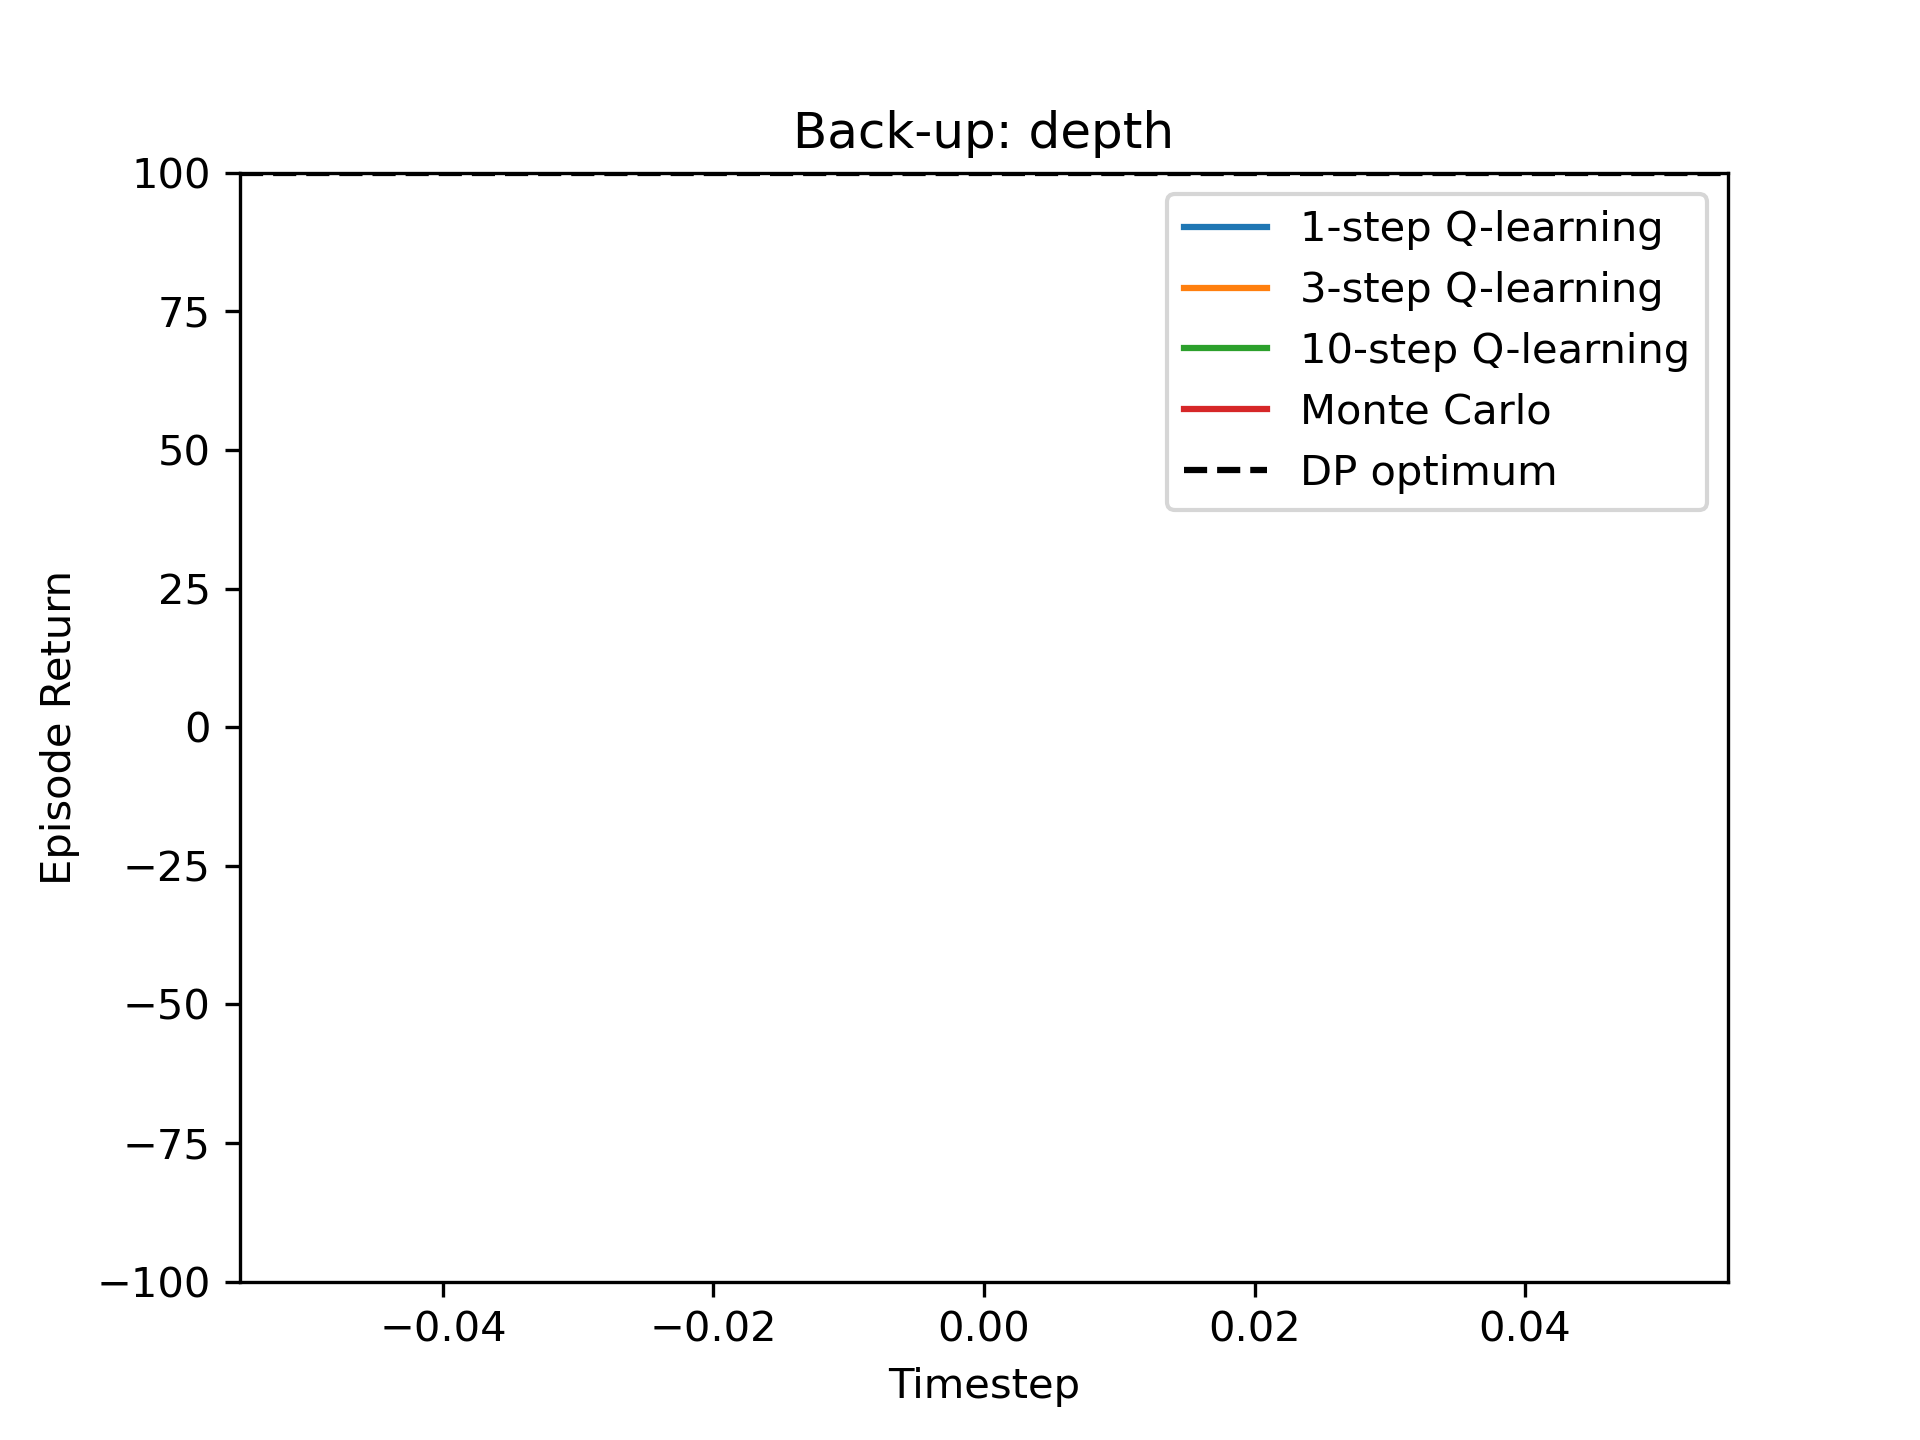
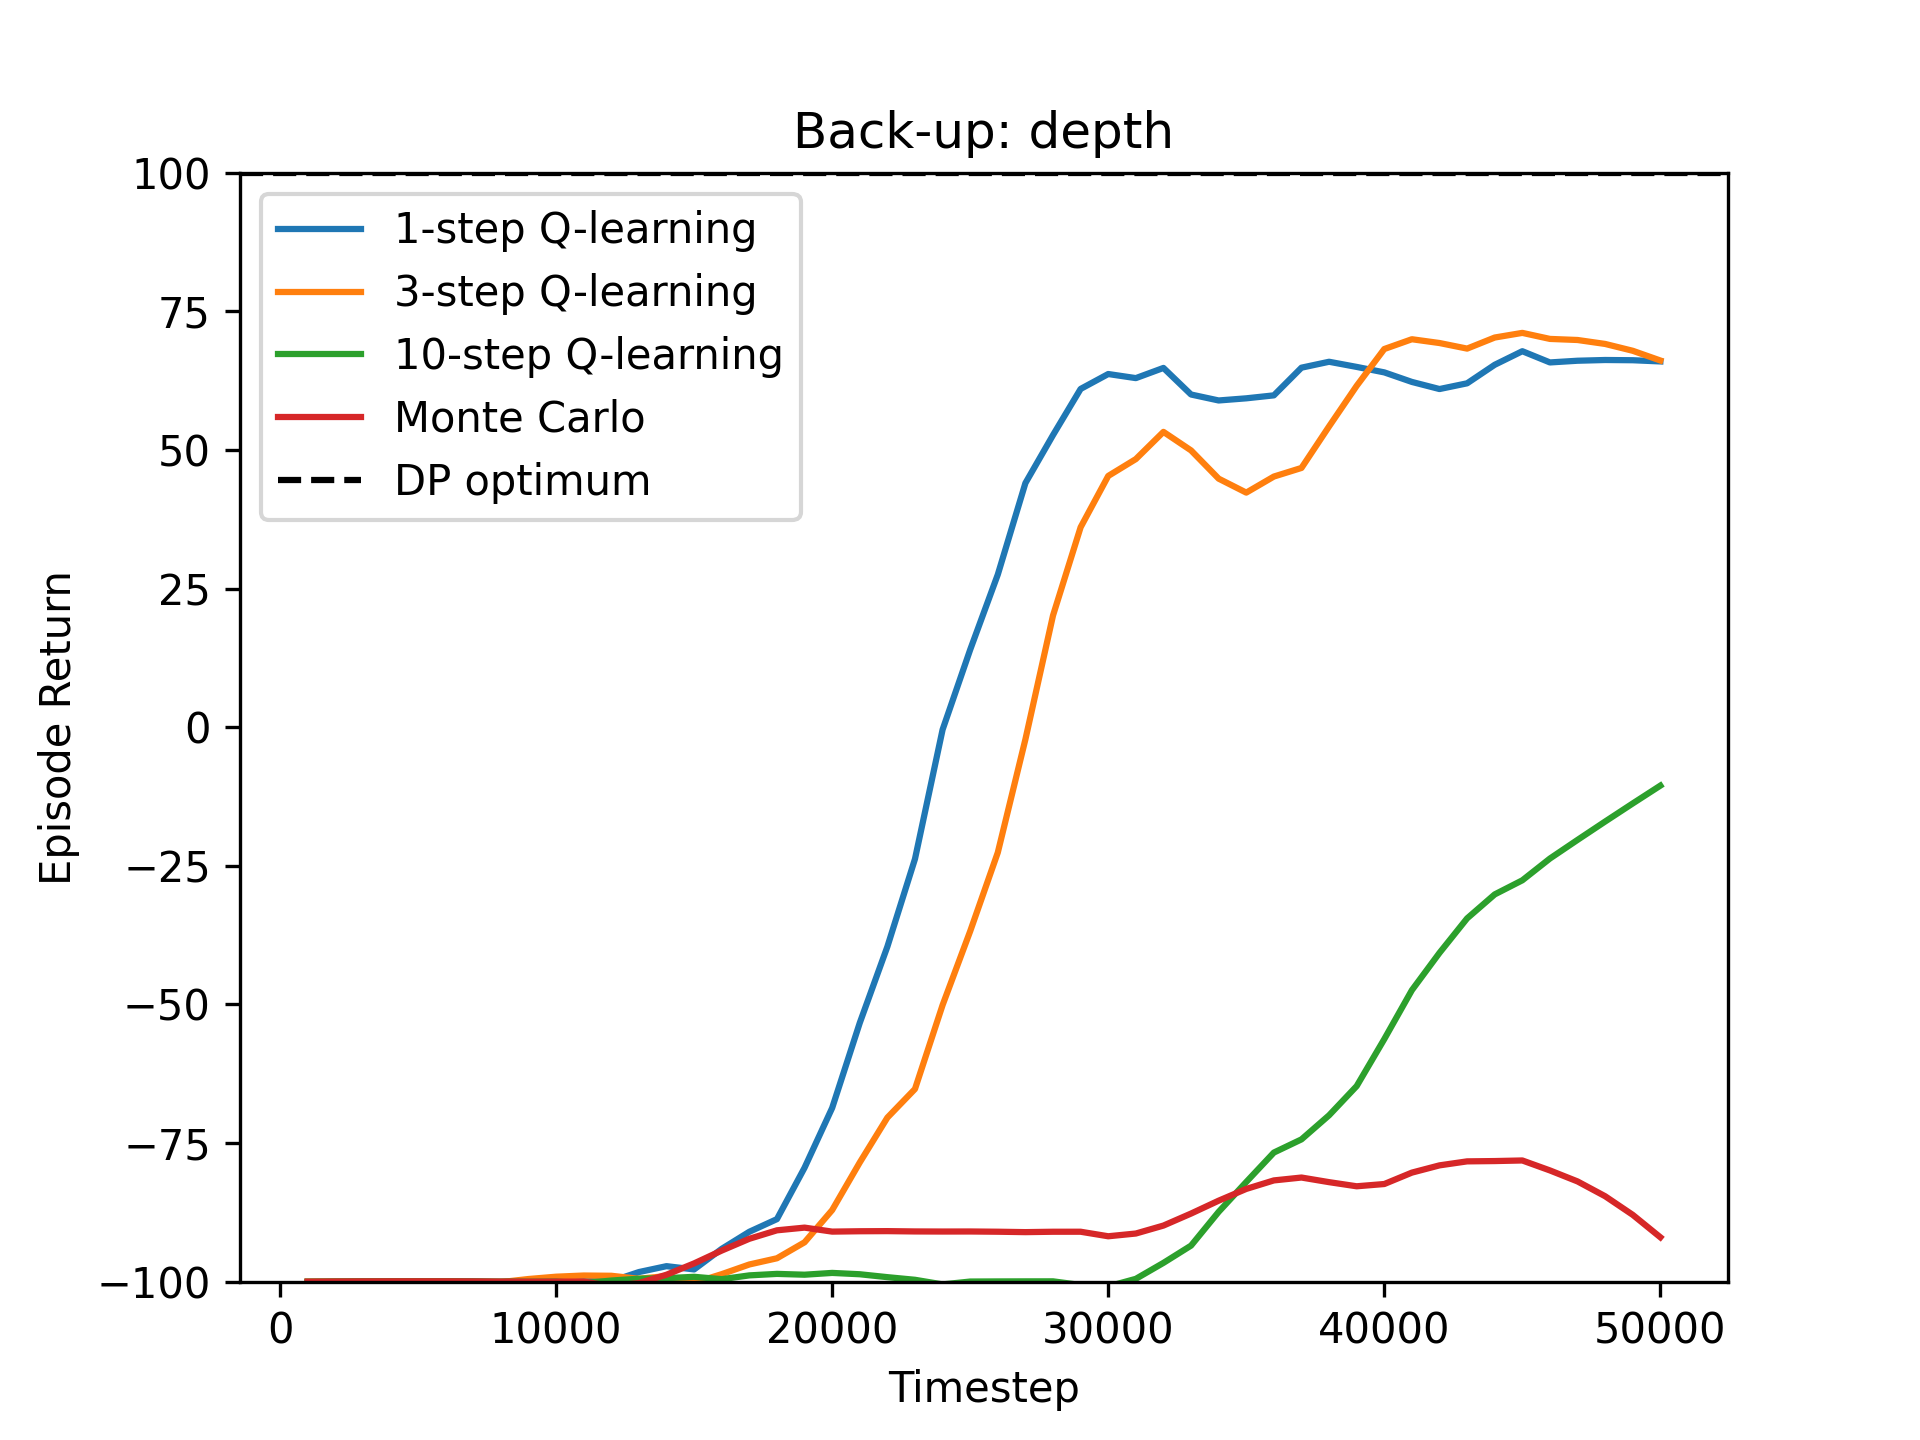
RL assignment: implemented n-step and Monte Carlo-- Ramone

diff --git a/Nstep.py b/Nstep.py
@@ -18,7 +18,23 @@ class NstepQLearningAgent(BaseAgent):
         rewards is a list of rewards observed in the episode, of length T_ep
         done indicates whether the final s in states is was a terminal state '''
         # TO DO: Add own code
-        pass
+        T_ep = len(actions)
+
+        for t in range(T_ep):
+            m = min(n, T_ep - t)
+
+            G = 0.0
+            for i in range(m):
+                G += (self.gamma ** i) * rewards[t+i]
+            
+            if not (done or (t + m == T_ep)):
+                s_boot = states[t + m]
+                G += (self.gamma ** m) * np.max(self.Q_sa[s_boot])
+
+                s_t = states[t]
+                a_t = actions[t]
+                self.Q_sa[s_t, a_t] += self.learning_rate * (G - self.Q_sa[s_t, a_t])
+
 
 def n_step_Q(n_timesteps, max_episode_length, learning_rate, gamma, 
                    policy='egreedy', epsilon=None, temp=None, plot=True, n=5, eval_interval=500):
@@ -32,9 +48,45 @@ def n_step_Q(n_timesteps, max_episode_length, learning_rate, gamma,
     eval_returns = []
 
     # TO DO: Write your n-step Q-learning algorithm here!
+
+    t_total = 0
+    while t_total < n_timesteps:
+        # start new episode
+        s = env.reset()
+        states = [s]
+        actions = []
+        rewards = []
+        done = False
+
+        for _ in range(max_episode_length):
+
+            a = pi.select_action(s, policy=policy,
+                                 epsilon=epsilon, temp=temp)
+            
+            s_next, r, done = env.step(a)
+            actions.append(a)
+            rewards.append(r)
+            states.append(s_next)
+
+            s = s_next
+            t_total += 1
+
+            # evaluate performance
+            if t_total % eval_interval == 0:
+                eval_returns.append(pi.evaluate(eval_env))
+                eval_timesteps.append(t_total)
+
+            if done or t_total >= n_timesteps:
+                break
+        
+        pi.update(states, actions, rewards, done, n)
+
+            
     
-    # if plot:
-    #    env.render(Q_sa=pi.Q_sa,plot_optimal_policy=True,step_pause=0.1) # Plot the Q-value estimates during n-step Q-learning execution
+        if plot:
+            env.render(Q_sa=pi.Q_sa,
+                        plot_optimal_policy=True,
+                        step_pause=0.1) # Plot the Q-value estimates during n-step Q-learning execution
         
     return np.array(eval_returns), np.array(eval_timesteps) 
 

diff --git a/MonteCarlo.py b/MonteCarlo.py
@@ -19,6 +19,14 @@ class MonteCarloAgent(BaseAgent):
         done indicates whether the final s in states is was a terminal state '''
         # TO DO: Add own code
 
+        T_ep = len(actions)
+        G = 0.0
+        for t in reversed(range(T_ep)):
+            G = rewards[t] + self.gamma * G
+            s_t = states[t]
+            a_t = actions[t]
+            self.Q_sa[s_t, a_t] += self.learning_rate * (G - self.Q_sa[s_t, a_t])
+
 def monte_carlo(n_timesteps, max_episode_length, learning_rate, gamma, 
                    policy='egreedy', epsilon=None, temp=None, plot=True, eval_interval=500):
     ''' runs a single repetition of an MC rl agent
@@ -32,9 +40,39 @@ def monte_carlo(n_timesteps, max_episode_length, learning_rate, gamma,
 
     # TO DO: Write your Monte Carlo RL algorithm here!
     
-    # if plot:
-    #    env.render(Q_sa=pi.Q_sa,plot_optimal_policy=True,step_pause=0.1) # Plot the Q-value estimates during Monte Carlo RL execution
+    t_total = 0
 
+    while t_total < n_timesteps:
+        s = env.reset()
+        states = [s]
+        actions = []
+        rewards = []
+        done = False
+
+        for _ in range(max_episode_length):
+            a = pi.select_action(s, policy=policy, epsilon=epsilon, temp=temp)
+
+            s_next, r, done = env.step(a)
+
+            actions.append(a)
+            rewards.append(r)
+            states.append(s_next)
+
+            s = s_next
+            t_total += 1
+
+            if t_total % eval_interval == 0:
+                eval_returns.append(pi.evaluate(eval_env))
+                eval_timesteps.append(t_total)
+
+            if done or t_total >= n_timesteps:
+                break
+
+        pi.update(states, actions, rewards)
+
+        # optional rendering during learning
+        if plot:
+            env.render(Q_sa=pi.Q_sa, plot_optimal_policy=True, step_pause=0.1) # Plot the Q-value estimates during Monte Carlo RL execution
                  
     return np.array(eval_returns), np.array(eval_timesteps) 
     
